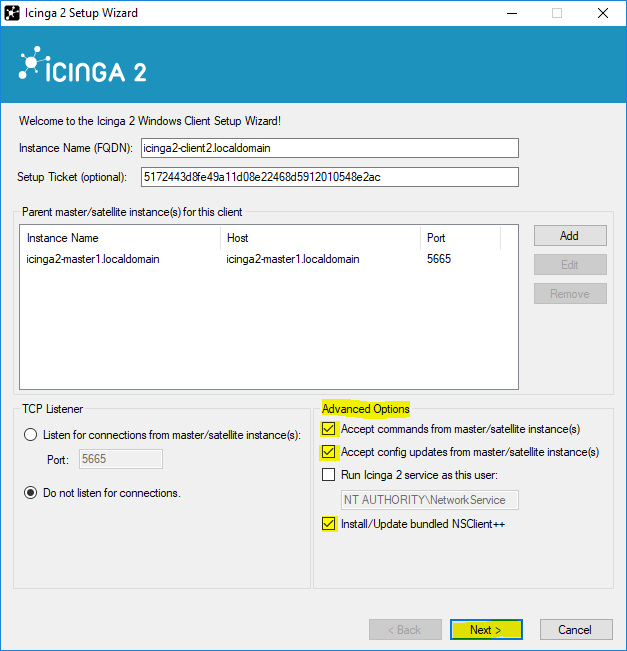
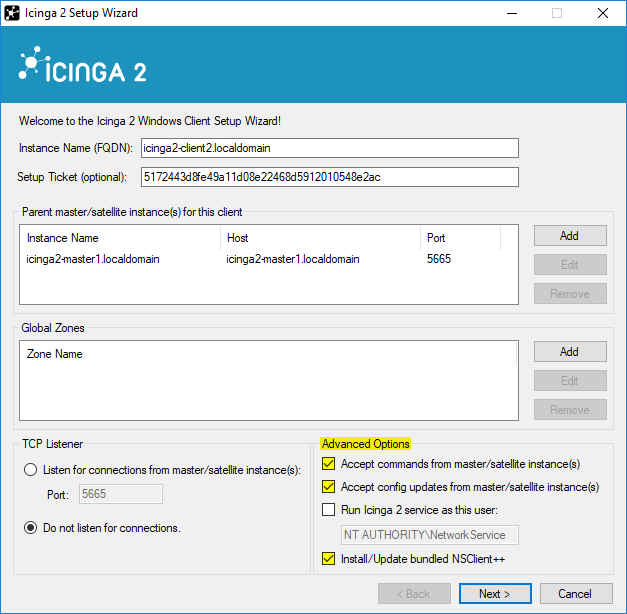
Update Windows wizard documentation for global zones
This updates the screenshots for the windows wizard.

diff --git a/doc/06-distributed-monitoring.md b/doc/06-distributed-monitoring.md
@@ -663,6 +663,10 @@ Add the following details:
 
 ![Icinga 2 Windows Setup](images/distributed-monitoring/icinga2_windows_setup_wizard_02.png)
 
+When needed you can add an additional global zone (the zones `global-templates` and `director-global` are added by default):
+
+![Icinga 2 Windows Setup](images/distributed-monitoring/icinga2_windows_setup_wizard_02_global_zone.png)
+
 Optionally enable the following settings:
 
   Parameter                         | Description
